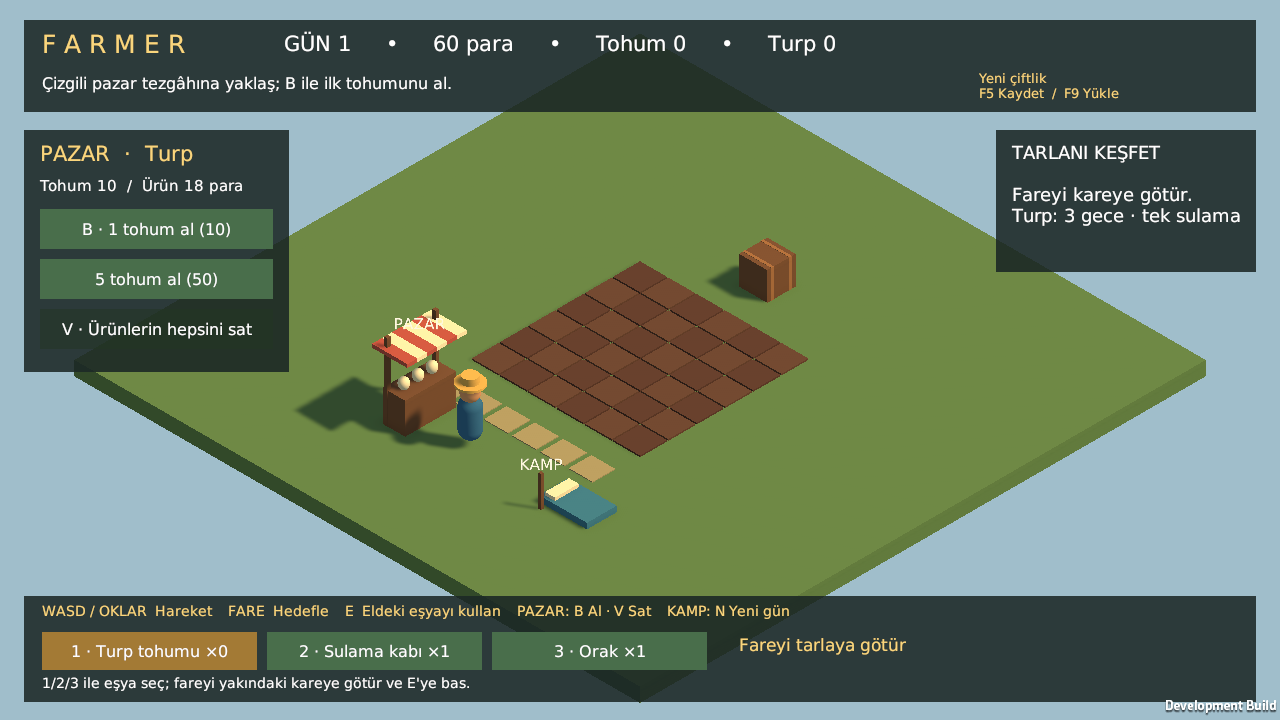
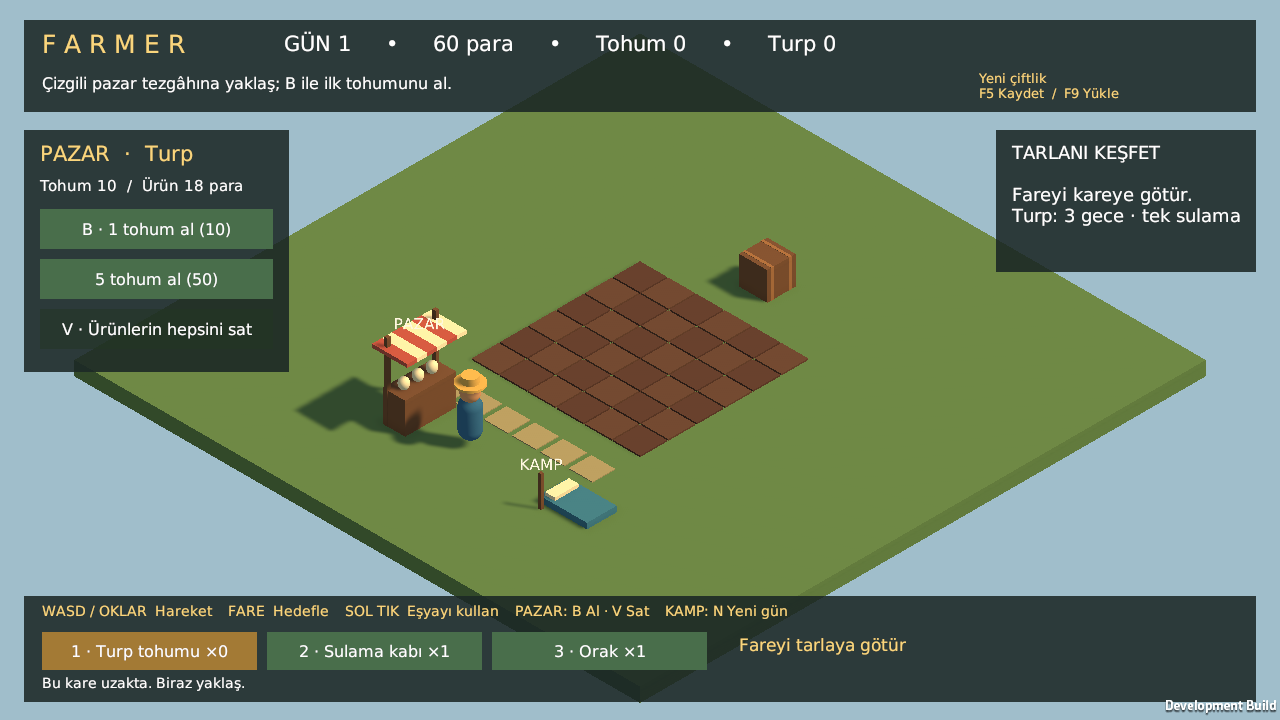
feat: use left click for equipped farming tools

Changed region(s): [[0.0312, 0.9167, 0.375, 0.9778], [0.2812, 0.825, 0.625, 0.8556]]

diff --git a/Assets/_Farmer/Runtime/FarmingSmokeChecks.cs b/Assets/_Farmer/Runtime/FarmingSmokeChecks.cs
@@ -39,21 +39,29 @@ namespace Farmer
                 yield return KeyPress(keyboard, Key.Digit1);
                 yield return Hover(game, controller, mouse, 0);
                 yield return KeyPress(keyboard, Key.E);
-                Check(game.Model.Seeds("turnip") == 5 && game.Model.Stage(0) == 0, "E plants without a prior click and consumes one seed.");
-                yield return KeyPress(keyboard, Key.E);
+                Check(game.Model.Stage(0) == -1 && game.Model.Seeds("turnip") == 6, "E no longer performs farm actions.");
+                Vector3 walkStart = player.transform.position;
+                InputSystem.QueueStateEvent(keyboard, new KeyboardState(Key.W));
+                yield return new WaitForSecondsRealtime(0.1f);
+                yield return Click(mouse, mouse.position.ReadValue());
+                InputSystem.QueueStateEvent(keyboard, new KeyboardState());
+                yield return null; yield return null;
+                Check(Vector3.Distance(player.transform.position, walkStart) > 0.1f, "W movement continues while left click uses an item.");
+                Check(game.Model.Seeds("turnip") == 5 && game.Model.Stage(0) == 0, "One left click plants directly and consumes one seed.");
+                yield return Click(mouse, mouse.position.ReadValue());
                 Check(!game.Model.Plot(0).watered && game.Model.Seeds("turnip") == 5, "Seed item cannot water an occupied plot.");
                 var waterSlot = GameObject.Find("Inventory Slot 1").GetComponent<Button>();
                 yield return Click(mouse, RectTransformUtility.WorldToScreenPoint(null, waterSlot.transform.position
                     + (Vector3)((RectTransform)waterSlot.transform).rect.center));
                 Check(game.Model.EquippedItem == FarmItem.WateringCan && GameObject.Find("Held WateringCan") != null, "Inventory click equips a visible watering can.");
-                yield return KeyPress(keyboard, Key.E);
-                Check(!game.Model.Plot(0).watered, "E over inventory does not use the previous soil target.");
+                yield return Click(mouse, mouse.position.ReadValue());
+                Check(!game.Model.Plot(0).watered, "Click over inventory does not use the previous soil target.");
                 yield return Hover(game, controller, mouse, 0);
-                yield return KeyPress(keyboard, Key.E);
-                Check(game.Model.Plot(0).watered, "E waters the planted crop.");
+                yield return Click(mouse, mouse.position.ReadValue());
+                Check(game.Model.Plot(0).watered, "Left click waters the planted crop.");
                 yield return KeyPress(keyboard, Key.Digit1);
                 yield return Hover(game, controller, mouse, 1);
-                yield return KeyPress(keyboard, Key.E);
+                yield return Click(mouse, mouse.position.ReadValue());
                 Check(!game.Model.Plot(1).watered, "Second planted crop starts dry.");
                 yield return Capture(screenshot, "stage-0");
                 yield return KeyPress(keyboard, Key.Digit2);
@@ -68,16 +76,16 @@ namespace Farmer
 
                 }
                 Check(game.Model.IsReady(0) && game.Model.Day == 4, "One watering and three nights produce a ready turnip.");
-                yield return KeyPress(keyboard, Key.E);
+                yield return Click(mouse, mouse.position.ReadValue());
                 Check(game.Model.Produce("turnip") == 0 && game.Model.IsReady(0), "Watering can never harvest a ripe plant.");
                 yield return KeyPress(keyboard, Key.Digit3);
                 Check(GameObject.Find("Held Sickle") != null, "Number key equips a visible sickle.");
                 yield return Capture(screenshot, "sickle");
                 Teleport(controller, new Vector3(7, 0.1f, 7));
-                yield return KeyPress(keyboard, Key.E);
+                yield return Click(mouse, mouse.position.ReadValue());
                 Check(game.Model.IsReady(0) && game.Model.Produce("turnip") == 0, "Walking away prevents remote harvesting.");
                 yield return Hover(game, controller, mouse, 0);
-                yield return KeyPress(keyboard, Key.E);
+                yield return Click(mouse, mouse.position.ReadValue());
                 Check(game.Model.Produce("turnip") == 1 && game.Model.Stage(0) == -1, "Harvest clears the plot and grants one item.");
                 Check(GameObject.Find("Harvest Feedback") != null && game.GetComponent<AudioSource>().isPlaying,
                     "Harvest triggers a floating item label and an audio cue.");
@@ -94,34 +102,32 @@ namespace Farmer
 
                 // Each crop is watered only once; stagger planting for a four-stage overview.
                 yield return KeyPress(keyboard, Key.Digit1);
-                yield return Hover(game, controller, mouse, 0); yield return KeyPress(keyboard, Key.E);
-                yield return KeyPress(keyboard, Key.Digit2); yield return KeyPress(keyboard, Key.E);
+                yield return Hover(game, controller, mouse, 0); yield return Click(mouse, mouse.position.ReadValue());
+                yield return KeyPress(keyboard, Key.Digit2); yield return Click(mouse, mouse.position.ReadValue());
                 Teleport(controller, game.Camp.position + Vector3.right); yield return KeyPress(keyboard, Key.N);
-                yield return Hover(game, controller, mouse, 1); yield return KeyPress(keyboard, Key.E);
-                Teleport(controller, game.Camp.position + Vector3.right); yield return KeyPress(keyboard, Key.N);
-                yield return KeyPress(keyboard, Key.Digit1);
-                yield return Hover(game, controller, mouse, 2); yield return KeyPress(keyboard, Key.E);
-                yield return KeyPress(keyboard, Key.Digit2); yield return KeyPress(keyboard, Key.E);
+                yield return Hover(game, controller, mouse, 1); yield return Click(mouse, mouse.position.ReadValue());
                 Teleport(controller, game.Camp.position + Vector3.right); yield return KeyPress(keyboard, Key.N);
                 yield return KeyPress(keyboard, Key.Digit1);
-                yield return Hover(game, controller, mouse, 3); yield return KeyPress(keyboard, Key.E);
-                yield return KeyPress(keyboard, Key.Digit2); yield return KeyPress(keyboard, Key.E);
+                yield return Hover(game, controller, mouse, 2); yield return Click(mouse, mouse.position.ReadValue());
+                yield return KeyPress(keyboard, Key.Digit2); yield return Click(mouse, mouse.position.ReadValue());
+                Teleport(controller, game.Camp.position + Vector3.right); yield return KeyPress(keyboard, Key.N);
+                yield return KeyPress(keyboard, Key.Digit1);
+                yield return Hover(game, controller, mouse, 3); yield return Click(mouse, mouse.position.ReadValue());
+                yield return KeyPress(keyboard, Key.Digit2); yield return Click(mouse, mouse.position.ReadValue());
                 Check(game.Model.Stage(0) == 3 && game.Model.Stage(1) == 2 && game.Model.Stage(2) == 1 && game.Model.Stage(3) == 0,
                     "Four distinct growth stages coexist in the final view.");
                 yield return Hover(game, controller, mouse, 0);
                 Teleport(controller, new Vector3(-4.5f, 0.1f, -2.8f));
                 yield return null;
-                // Pointer motion and E arriving in the same frame must act on the new target.
+                // Pointer motion and left click arriving in the same frame must act on the new target.
                 yield return KeyPress(keyboard, Key.Digit1);
                 Vector3 fresh = game.Selection.Layout.Center(new Vector2Int(4, 0), 0.055f);
                 Teleport(controller, fresh + Vector3.back * 1.5f + Vector3.up * 0.1f);
-                InputSystem.QueueStateEvent(mouse, new MouseState { position = Camera.main.WorldToScreenPoint(fresh) });
-                yield return KeyPress(keyboard, Key.E);
-                Check(game.Model.Stage(4) == 0, "E uses the new mouse position in the same frame.");
+                yield return Click(mouse, Camera.main.WorldToScreenPoint(fresh));
+                Check(game.Model.Stage(4) == 0, "Left click uses the new mouse position in the same frame.");
                 string state = JsonUtility.ToJson(game.Model.Snapshot());
-                InputSystem.QueueStateEvent(mouse, new MouseState { position = new Vector2(-10, -10) });
-                yield return KeyPress(keyboard, Key.E);
-                Check(JsonUtility.ToJson(game.Model.Snapshot()) == state, "E outside the window cannot affect the farm.");
+                yield return Click(mouse, new Vector2(-10, -10));
+                Check(JsonUtility.ToJson(game.Model.Snapshot()) == state, "Click outside the window cannot affect the farm.");
                 yield return KeyPress(keyboard, Key.Digit2);
                 yield return Hover(game, controller, mouse, 2);
                 Teleport(controller, new Vector3(-4.5f, 0.1f, -2.8f));

diff --git a/Assets/_Farmer/Runtime/FarmGame.cs b/Assets/_Farmer/Runtime/FarmGame.cs
@@ -51,17 +51,17 @@ namespace Farmer
         private void Update()
         {
             var k = Keyboard.current;
-            if (!Application.isFocused || k == null) return;
-            if (k.f9Key.wasPressedThisFrame) LoadGame();
+            if (!Application.isFocused) return;
+            if (k?.f9Key.wasPressedThisFrame == true) LoadGame();
             if (!Ready) return;
-            if (k.digit1Key.wasPressedThisFrame) Equip(FarmItem.Seeds);
-            if (k.digit2Key.wasPressedThisFrame) Equip(FarmItem.WateringCan);
-            if (k.digit3Key.wasPressedThisFrame) Equip(FarmItem.Sickle);
-            if (k.eKey.wasPressedThisFrame) UseHovered();
-            if (k.bKey.wasPressedThisFrame) Buy(1);
-            if (k.vKey.wasPressedThisFrame) SellHarvest();
-            if (k.nKey.wasPressedThisFrame) Rest();
-            if (k.f5Key.wasPressedThisFrame) SaveGame();
+            if (k?.digit1Key.wasPressedThisFrame == true) Equip(FarmItem.Seeds);
+            if (k?.digit2Key.wasPressedThisFrame == true) Equip(FarmItem.WateringCan);
+            if (k?.digit3Key.wasPressedThisFrame == true) Equip(FarmItem.Sickle);
+            if (Mouse.current?.leftButton.wasPressedThisFrame == true) UseHovered();
+            if (k?.bKey.wasPressedThisFrame == true) Buy(1);
+            if (k?.vKey.wasPressedThisFrame == true) SellHarvest();
+            if (k?.nKey.wasPressedThisFrame == true) Rest();
+            if (k?.f5Key.wasPressedThisFrame == true) SaveGame();
         }
 
         private bool Near(Transform target)
@@ -76,12 +76,12 @@ namespace Farmer
         public string EquippedName => Model.EquippedItem == FarmItem.Seeds ? ActiveCrop.displayName + " tohumu"
             : Model.EquippedItem == FarmItem.WateringCan ? "Sulama kabı" : "Orak";
         public string ActionLabel => HoveredIndex < 0 ? "Fareyi tarlaya götür" : !selection.HoveredInReach ? "Kareye yaklaş"
-            : Model.EquippedItem == FarmItem.Seeds ? "E · Tohum ek" : Model.EquippedItem == FarmItem.WateringCan ? "E · Sula" : "E · Hasat et";
+            : Model.EquippedItem == FarmItem.Seeds ? "Sol tık · Tohum ek" : Model.EquippedItem == FarmItem.WateringCan ? "Sol tık · Sula" : "Sol tık · Hasat et";
 
         public void Equip(FarmItem item)
         {
             if (!Ready || !Model.Equip(item)) return;
-            Feedback = EquippedName + " seçildi. Fareyi yakındaki kareye götür ve E'ye bas.";
+            Feedback = EquippedName + " seçildi. Fareyi yakındaki kareye götür ve sol tıkla.";
             SaveGame(); Changed?.Invoke();
         }
 
@@ -90,8 +90,9 @@ namespace Farmer
             if (!Ready || !Application.isFocused) return false;
             selection.RefreshPointer();
             int index = HoveredIndex;
-            if (index < 0 || !selection.HoveredInReach)
-            { Feedback = index < 0 ? "Fareyi bir tarla karesinin üzerine götür." : "Bu kare uzakta. Biraz yaklaş."; return false; }
+            if (index < 0) return false; // UI and outside-world clicks are not farm actions.
+            if (!selection.HoveredInReach)
+            { Feedback = "Bu kare uzakta. Biraz yaklaş."; return false; }
             var plot = Model.Plot(index);
             bool harvesting = Model.EquippedItem == FarmItem.Sickle;
             bool ok = Model.UseEquipped(index, ActiveCrop.id, out string message);
@@ -144,7 +145,7 @@ namespace Farmer
                 if (loaded != null) Model = loaded;
                 Ready = true;
                 SaveStatus = recovered ? "Yedek kayıt yüklendi" : loaded == null ? "Yeni çiftlik" : "Kayıt yüklendi";
-                Feedback = recovered ? "Son sağlam yedek açıldı; önceki dosya korunacak." : "1/2/3 ile eşya seç; fareyi yakındaki kareye götür ve E'ye bas.";
+                Feedback = recovered ? "Son sağlam yedek açıldı; önceki dosya korunacak." : "1/2/3 ile eşya seç; fareyi yakındaki kareye götür ve sol tıkla.";
                 Changed?.Invoke(); return true;
             }
             catch (Exception e) when (e is IOException || e is UnauthorizedAccessException || e is ArgumentException)

diff --git a/Assets/_Farmer/Runtime/FarmHud.cs b/Assets/_Farmer/Runtime/FarmHud.cs
@@ -51,7 +51,7 @@ namespace Farmer
             sleep = Button(camp, "N · Günü bitir", 16, 158, 233, 40, () => game.Rest());
 
             var footer = Panel("Controls", root.transform, new Vector2(0.5f, 0), new Vector2(0, 18), new Vector2(1232, 106));
-            Label(footer, "WASD / OKLAR  Hareket    FARE  Hedefle    E  Eldeki eşyayı kullan    PAZAR: B Al · V Sat    KAMP: N Yeni gün",
+            Label(footer, "WASD / OKLAR  Hareket    FARE  Hedefle    SOL TIK  Eşyayı kullan    PAZAR: B Al · V Sat    KAMP: N Yeni gün",
                 14, 18, 7, 1195, 24, Gold);
             for (int i = 0; i < slots.Length; i++)
             {
@@ -74,11 +74,11 @@ namespace Farmer
             saveStatus.text = game.SaveStatus + "\nF5 Kaydet  /  F9 Yükle";
             feedback.text = game.Feedback;
             if (!game.Ready) objective.text = "Kayıt sorunu çözülene kadar çiftlik işlemleri duraklatıldı.";
-            else if (model.ReadyCount > 0) objective.text = $"{model.ReadyCount} ürün hasada hazır. Orağı al (3), hedefle ve E ile topla.";
-            else if (model.ThirstyCount > 0) objective.text = $"{model.ThirstyCount} kare sulama bekliyor. Sulama kabını al (2), hedefle ve E'ye bas.";
+            else if (model.ReadyCount > 0) objective.text = $"{model.ReadyCount} ürün hasada hazır. Orağı al (3), hedefle ve sol tıkla topla.";
+            else if (model.ThirstyCount > 0) objective.text = $"{model.ThirstyCount} kare sulama bekliyor. Sulama kabını al (2), hedefle ve sol tıkla.";
             else if (model.Produce(crop.id) > 0) objective.text = "Hasadını pazarda sat; kazancınla yeni tohumlar al.";
             else if (model.PlantedCount > 0) objective.text = "Bitkilerin sulandı. Kampta dinlenerek yeni güne geç.";
-            else if (model.Seeds(crop.id) > 0) objective.text = "Tohumu al (1), boş kareyi fareyle hedefle ve E ile ek.";
+            else if (model.Seeds(crop.id) > 0) objective.text = "Tohumu al (1), boş kareyi fareyle hedefle ve sol tıkla ek.";
             else objective.text = "Çizgili pazar tezgâhına yaklaş; B ile ilk tohumunu al.";
 
             int index = game.HoveredIndex;

diff --git a/YAZILIMCI.md b/YAZILIMCI.md
@@ -4,7 +4,7 @@ Son güncelleme: **7 Ekim 2026 — Europe/Istanbul**.
 
 ## Şu an nerede kaldık?
 
-**Unity 6000.3.25f1 LTS (e1dba0a9aba4)** Linux makinesine kuruldu ve `Unity -version` ile doğrulandı. Resmi URP şablonunun kaynak dosyaları depoya alındı. 7 Ekim tarihinde aktif lisans doğrulandı; ilk paket importu, C# derlemesi ve başlangıç sahnesi üretimi başarıyla tamamlandı. Linux build ve görsel kontrol sonucu aşağıdaki doğrulama kaydında tutulur. **0.1 çekirdek prototipi Linux üzerinde tamamlandı:** hareket, kare seçimi, tohum satın alma, ekim/sulama, dört görünür büyüme aşaması, hasat/satış, gün ilerletme ve kayıt/yükleme çalışıyor. Sıradaki geliştirme 0.2 modüler üs kurmanın ilk küçük adımı. Kullanıcının ilk oynanış geri bildirimi uygulandı: tıkla-seç adımı kaldırıldı, fare hedefi üzerinde eldeki eşya ile E etkileşimine geçildi. Her ekimde tek sulama yeterli; hasat süresi üç gece olarak korundu. Görseller geçici; Windows doğrulaması açık.
+**Unity 6000.3.25f1 LTS (e1dba0a9aba4)** Linux makinesine kuruldu ve `Unity -version` ile doğrulandı. Resmi URP şablonunun kaynak dosyaları depoya alındı. 7 Ekim tarihinde aktif lisans doğrulandı; ilk paket importu, C# derlemesi ve başlangıç sahnesi üretimi başarıyla tamamlandı. Linux build ve görsel kontrol sonucu aşağıdaki doğrulama kaydında tutulur. **0.1 çekirdek prototipi Linux üzerinde tamamlandı:** hareket, kare seçimi, tohum satın alma, ekim/sulama, dört görünür büyüme aşaması, hasat/satış, gün ilerletme ve kayıt/yükleme çalışıyor. Sıradaki geliştirme 0.2 modüler üs kurmanın ilk küçük adımı. Kullanıcının ilk oynanış geri bildirimi uygulandı: tıkla-seç adımı kaldırıldı, fare hedefi üzerinde eldeki eşya ile doğrudan sol tık etkileşimine geçildi. Her ekimde tek sulama yeterli; hasat süresi üç gece olarak korundu. Görseller geçici; Windows doğrulaması açık.
 
 Kullanıcı tek başına geliştirecek, Linux ve Windows bilgisayarlar arasında çalışacak. Python, C# ve Java deneyimi yüksek; oyun motoru deneyimi sınırlı ancak Unity'de Godot'tan daha deneyimli. Modelleri harici AI araçlarıyla üretebilir; biz prompt ve entegrasyon gereksinimlerini hazırlayacağız.
 
@@ -98,19 +98,20 @@ Kullanıcı 7 Ekim 2026'da diğer bilgisayarda değişiklik yapmadığını beli
 - Smoke capture ayrı geçici kayıt kullanır ve normal oyuncu kaydını değiştirmez; sonunda test kayıtları temizlenir. Build, günlük ve QA ara çıktıları Git dışında.
 - Windows, editör Play modu ve uzun süreli performans testi ayrıca yapılmadı. 0.2 inşaat, çoklu ürün seçimi, üretim ve moblar bu sürüme dahil değil.
 
-## Güncel etkileşim — eldeki eşya ve tıklamasız hedefleme
+## Güncel etkileşim — eldeki eşya ve doğrudan sol tık
 
-Kullanıcı 7 Ekim'de her kareye tıklayıp E'ye basmanın geniş tarlalarda yorucu olduğunu bildirdi. İstenen değişiklik uygulandı:
+Kullanıcı 7 Ekim'de önce kare seçme adımını kaldırmamızı, ardından WASD ile birlikte kullanım daha rahat olsun diye E yerine sol tık kullanmamızı istedi. Güncel davranış:
 
 - **1:** turp tohumu; **2:** sulama kabı; **3:** orak. Alt eşya çubuğundan da kuşanılır. Alınan tohum adedi burada gösterilir; sulama kabı ve orak kalıcı başlangıç envanter eşyalarıdır. Genel çanta/alet satın alma sistemi henüz yok.
-- Fare yakındaki kare üzerindeyken **E** eldeki eşyayı kullanır. Tarlaya sol tıklama gerekmez, kalıcı kare seçimi yoktur. Yanlış alet başka bir işe dönüşmez; tekrar ekim/sulama/hasat kaynak çoğaltmaz.
-- HUD/pencere dışı/uzak karede işlem engellenir. E sırasında fare konumu yeniden okunur; aynı görüntü karesinde eski hedefe yanlış işlem yapılmaz. Bir basış bir işlem; basılı tutma ve alan etkisi eklenmedi.
+- Fare yakındaki kare üzerindeyken **sol tık** eldeki eşyayı doğrudan kullanır. Önce seçim adımı yoktur; E artık tarla işlemi yapmaz. Yanlış alet başka bir işe dönüşmez; tekrar ekim/sulama/hasat kaynak çoğaltmaz.
+- HUD/pencere dışı/uzak karede işlem engellenir. Sol tık sırasında fare konumu yeniden okunur; aynı görüntü karesinde eski hedefe yanlış işlem yapılmaz. Bir basış bir işlem; basılı tutma ve alan etkisi eklenmedi.
 - `FarmModel.EquippedItem` / `UseEquipped` kuralları sunumdan ayrıdır. `FarmGame.UseHovered` erişimi kontrol eder; `FarmSelection` yalnızca imleç hedefini tutar. `FarmHud` eşya çubuğu ve hedef bilgisi gösterir.
 - Tohum torbası, sulama kabı ve orak karakterin elinde geçici geometriyle görünür. Tohum sayısı sıfırsa elde torba gösterilmez. Modeller nihai sanat varlığı değildir.
 - Kuşanılan eşya `FarmSnapshot.equippedItem` ile kaydedilir. Şema hâlâ sürüm 1; eski kayıtta bu alan yoksa tohum varsayılır. Para/tarla/envanter korunur, aletler başlangıç donanımı olarak bulunur.
 - Tek sulama hasada kadar korunur; hiç sulanmayan ürün bekler, hasat sonrası yeni ekim yeniden bir kez sulanır. Süre üç gecedir. Eski kayıtta `growth > 0` olan ürün önceden sulanmış kabul edilir; ilerleme kaybolmaz.
 - **44/44 EditMode testi geçti** (`Logs/equipment-watering-tests.xml`): eşya işlemleri, eski kayıt uyumluluğu, tek sulamanın kayıt sonrası sürmesi ve yeniden ekimde sıfırlanması dahil.
-- Son Linux build başarılı (`Logs/equipment-watering-build.log`). Gerçek player'da **11 hareket/hedef + 48 tarım kontrolü geçti**, çıkış 0 (`Logs/equipment-watering-player.log`). Döngüde hiç tarla tıklaması yok; tek sulamadan sonra yeniden sulanmadan üç gecede hasat doğrulandı; eşya düğmesi/1–2–3, yanlış alet, HUD üzerinde E, pencere dışı E, aynı görüntü karesinde fare hareketi + E ve kayıt/yükleme denendi.
+- Önceki eşya/tek sulama Linux build'i başarılı (`Logs/equipment-watering-build.log`). Gerçek player'da **11 hareket/hedef + 48 tarım kontrolü geçti**, çıkış 0 (`Logs/equipment-watering-player.log`). Döngüde hiç tarla tıklaması yok; tek sulamadan sonra yeniden sulanmadan üç gecede hasat doğrulandı; eşya düğmesi/1–2–3, yanlış alet, HUD üzerinde E, pencere dışı E, aynı görüntü karesinde fare hareketi + E ve kayıt/yükleme denendi.
+- **Son sol tık doğrulaması:** Linux build ve 61 gerçek player kontrolü geçti; `Logs/click-build.log` / `Logs/click-player.log`. Arayüz yönlendirmeleri ve ekran görüntüleri güncellendi.
 - Yeni eşya çubuğu, tohum torbası, sulama kabı ve orak oyun görüntülerinde incelendi. Güncel PNG'ler `docs/screenshots/farming-prototype.png` / `farming-market.png`. Windows ve kullanıcıyla yeni etkileşimin hissi henüz denenmedi.
 
 ## Sıradaki somut işler
@@ -134,3 +135,5 @@ Kullanıcı 7 Ekim'de her kareye tıklayıp E'ye basmanın geniş tarlalarda yor
 **2026-10-07 — etkileşim geri bildirimi:** Kullanıcının isteğiyle tıkla-seç + bağlama göre işlem yapısı kaldırıldı. 1/2/3 ve eşya çubuğuyla kuşanılan tohum/sulama kabı/orak, fare hedefindeki yakın kareye E ile uygulanıyor. Eşya adımı önce 42 mantık testi ve 61 player kontrolüyle doğrulandı; aşağıdaki tek sulama değişikliği sonrasında güncel sonuç 44 mantık testi ve 59 player kontrolüdür.
 
 **2026-10-07 — tek sulama geri bildirimi:** Kullanıcı aynı adımda günlük sulama gereğini kaldırmamızı istedi. Her ekimde bir sulama yeterli olacak şekilde model, kayıt uyumluluğu ve arayüz güncellendi; olgunlaşma üç gece olarak korundu. Son Linux build, 44 mantık testi ve 59 player kontrolü başarılı.
+
+**2026-10-07 — sol tık geri bildirimi:** Kullanıcı WASD ile E kullanmanın yorucu olduğunu bildirdi. Ekim/sulama/hasat doğrudan sol tıka taşındı; 1/2/3 eşya seçimi ve tek sulama/üç gece kuralı korundu. Arayüz ve pencere dışı tıklamalar tarla işlemi yapmaz. Linux build başarılı (`Logs/click-build.log`); gerçek player'da 11 hareket/hedef ve 50 tarım kontrolü başarılı, çıkış 0 (`Logs/click-player.log`). W ile yürürken tek tıkla ekim, E'nin etkisiz olması, yanlış alet, arayüz/pencere dışı tıklama ve tam tarım döngüsü denendi. Güncel ekran görüntüsü incelendi. Model/kayıt kuralları değişmediği için 44 EditMode testi bu adımda tekrar çalıştırılmadı; önceki geçerli sonuç yukarıdadır.

diff --git a/docs/TESTLER.md b/docs/TESTLER.md
@@ -36,12 +36,12 @@ Kontrol, Input System'e geçici sanal klavye/fare olayları göndererek normal h
 1. `Farm.unity` sahnesini açıp Play'e bas veya Linux uygulamasını ek bayrak olmadan çalıştır.
 2. WASD ve oklarla her yöne yürü; çapraz hareketin hızlanmadığını, kameranın dönmediğini gözle.
 3. Sağdaki sandığa doğru yürü; içinden geçmemelisin. Arazi kenarına yürü; düşmemelisin.
-4. Fareyi tarlada gezdir; tıklamadan hedef çerçevesi gelmeli. Uzak kare turuncu olmalı ve E işlem yapmamalı.
-5. Fare HUD üzerindeyken/pencere dışındayken hedef kaybolmalı; E önceki karede işlem yapmamalı. 1/2/3 veya eşya çubuğu düğmeleri eldeki eşyayı değiştirmeli.
+4. Fareyi tarlada gezdir; tıklamadan hedef çerçevesi gelmeli. Uzak kare turuncu olmalı ve sol tık işlem yapmamalı.
+5. Fare HUD üzerindeyken/pencere dışındayken hedef kaybolmalı; sol tık önceki karede işlem yapmamalı. 1/2/3 veya eşya çubuğu düğmeleri eldeki eşyayı değiştirmeli.
 6. Pazar tezgâhına yaklaş, B veya düğmelerle tohum al. Paran ve tohum sayın doğru değişmeli.
-7. 1 ile tohumu kuşan, yakın boş kareyi fareyle hedefle ve E ile ek. Aynı eşyayla tekrar E sulamamalı. 2 ile sulama kabını kuşan ve E ile sula; toprak koyulaşmalı. 1 ile ikinci bir kareye ekip kuru bırak.
+7. 1 ile tohumu kuşan, yakın boş kareyi fareyle hedefle ve sol tıkla ek. Aynı eşyayla tekrar sol tık sulamamalı. 2 ile sulama kabını kuşan ve sol tıkla sula; toprak koyulaşmalı. 1 ile ikinci bir kareye ekip kuru bırak.
 8. Kamp minderine yaklaş ve N ile günü bitir. Sulanan ürün büyümeli, kuru ürün aynı aşamada kalmalı. Yeniden sulamadan üç kez geceyi geçir; üçüncü geceden sonra hasat hazır olmalı. Hasat sonrası tekrar ekilen bitki bir kez yeniden sulanmalı.
-9. Sulama kabıyla olgun ürünü hasat edememelisin. 3 ile orağı kuşan ve E ile hasat et; pazara gidip V ile sat ve kazançla tekrar tohum al.
+9. Sulama kabıyla olgun ürünü hasat edememelisin. 3 ile orağı kuşan ve sol tıkla hasat et; pazara gidip V ile sat ve kazançla tekrar tohum al.
 10. Bir kareyi suladıktan sonra oyunu kapat/aç veya F9'a bas. Para, tohum, hasat envanteri, gün, bitki, sulama ve kuşanılan eşya korunmalı.
 
 ## Tarım döngüsünün otomatik player denemesi
@@ -52,9 +52,9 @@ Kontrol, Input System'e geçici sanal klavye/fare olayları göndererek normal h
   -logFile "$PWD/Logs/farming-player.log"
 ```
 
-`--farmer-check-farming`, pazar düğmesine gerçek UI tıklaması ve 1/2/3/B/E/N/V/F5/F9 tuş olaylarıyla satın alma, kuru bitkinin beklemesi, dört aşama, uzak hasadın engellenmesi, hasat, satış, yeniden yatırım ve kayıt yüklemeyi kontrol eder. Tarla işlemleri öncesinde fare tıklaması gönderilmez. Yanlış alet, HUD/pencere dışı E, eşya düğmesi ve aynı karede imleç hareketi + E de kontrol edilir. Ayrıca pazar ve her büyüme aşaması için ayrı PNG üretir; son görüntüde farklı yaşta dört bitki bırakır. Testte konum hazırlığı teleport ile yapılır; hareket/çarpışma ayrıca önceki kontrol setinde denenir.
+`--farmer-check-farming`, pazar düğmesine gerçek UI tıklaması ve 1/2/3/B/N/V/F5/F9 tuş olaylarıyla satın alma, kuru bitkinin beklemesi, dört aşama, uzak hasadın engellenmesi, hasat, satış, yeniden yatırım ve kayıt yüklemeyi kontrol eder. Tarla işlemleri tek sol tıkla yapılır; E işlemez. WASD hareketi sırasında tıklama da denenir. Yanlış alet, HUD/pencere dışı tıklama, eşya düğmesi ve aynı karede imleç hareketi + sol tık da kontrol edilir. Ayrıca pazar ve her büyüme aşaması için ayrı PNG üretir; son görüntüde farklı yaşta dört bitki bırakır. Testte konum hazırlığı teleport ile yapılır; hareket/çarpışma ayrıca önceki kontrol setinde denenir.
 
-**Her smoke capture çalıştırması ayrı geçici kayıt klasörü kullanır; oyuncunun normal çiftliğini yüklemez veya üzerine yazmaz.** Sonunda test kayıt klasörü temizlenir. Ekran görüntüleri ve günlükler `builds/QA` / `Logs` altında kalır. Başarı için 48 `FARMER_FARM_CHECK_OK`, `FARMER_FARMING_CHECKS_FINISHED`, `FARMER_PLAYER_SMOKE_OK` ve çıkış 0 gerekir; `FARMER_FARM_CHECK_FAILED` olmamalı. Ses kontrolü AudioSource oynatma durumunu doğrular; dinleme kalitesi değerlendirmesi değildir.
+**Her smoke capture çalıştırması ayrı geçici kayıt klasörü kullanır; oyuncunun normal çiftliğini yüklemez veya üzerine yazmaz.** Sonunda test kayıt klasörü temizlenir. Ekran görüntüleri ve günlükler `builds/QA` / `Logs` altında kalır. Başarı için 50 `FARMER_FARM_CHECK_OK`, `FARMER_FARMING_CHECKS_FINISHED`, `FARMER_PLAYER_SMOKE_OK` ve çıkış 0 gerekir; `FARMER_FARM_CHECK_FAILED` olmamalı. Ses kontrolü AudioSource oynatma durumunu doğrular; dinleme kalitesi değerlendirmesi değildir.
 
 ## Kayıt dosyası
 

diff --git a/docs/OYUN_TASARIMI.md b/docs/OYUN_TASARIMI.md
@@ -16,7 +16,7 @@ Tekrarlanan işleri ileride sulama/üretim sistemleri kolaylaştırmalı. Daha g
 
 ## Çiftçilik
 
-**7 Ekim kullanıcı geri bildirimiyle kesinleşen etkileşim:** Tarla karesini tıklayarak seçmek gerekmez. Fare o karenin üzerindeyken ve oyuncu yeterince yakındayken E, eldeki eşyayı kullanır. Tohum ekim, sulama kabı sulama, orak hasat yapar; işlemler bitkinin durumuna bakarak otomatik başka bir işe dönüşmez. Eşyalar hızlı erişim çubuğundan veya 1/2/3 ile kuşanılır; karakterin elinde görünür. Bir basış bir işlem yapar. Şimdilik basılı tutma, alan etkisi, su doldurma ve alet dayanıklılığı yoktur.
+**7 Ekim kullanıcı geri bildirimiyle kesinleşen etkileşim:** Tarla karesini tıklayarak seçmek gerekmez. Fare o karenin üzerindeyken ve oyuncu yeterince yakındayken sol tık, eldeki eşyayı kullanır. Tohum ekim, sulama kabı sulama, orak hasat yapar; işlemler bitkinin durumuna bakarak otomatik başka bir işe dönüşmez. Eşyalar hızlı erişim çubuğundan veya 1/2/3 ile kuşanılır; karakterin elinde görünür. Bir sol tık bir işlem yapar. Şimdilik basılı tutma, alan etkisi, su doldurma ve alet dayanıklılığı yoktur.
 
 0.1 envanterinde sulama kabı ve orak birer kalıcı başlangıç eşyasıdır. Tohum adedi pazar alışverişinden gelir ve ekimde azalır. Bu prototipte genel çanta/taşıma sistemi yoktur; alet edinme/üretme ekonomisi sonraki tasarım işidir.
 

diff --git a/docs/KURULUM.md b/docs/KURULUM.md
@@ -30,7 +30,7 @@ git config --local user.email "cenkgrs@gmail.com"
 4. Unity Hub → Projects → Add/Open from disk ile deponun kökünü seç. Mevcut deponun üzerine yeni şablon oluşturma.
 5. İlk import ve paket çözümlemesini bekle. Lisans/derleme hatası varsa önce onu çöz.
 6. `Farm.unity` yoksa Farmer → Create Initial Scene menüsünü bir kez çalıştır. Araç mevcut Farm sahnesinin üzerine yazmaz.
-7. `Assets/_Farmer/Scenes/Farm.unity` sahnesini aç ve Play'e bas. Sahnede WASD/oklarla hareket, fareyle tıklamadan kare hedefleme vardır. 1/2/3 ile tohum/sulama kabı/orak kuşan, E ile hedeflenen yakındaki karede kullan. Pazar yakınında B/V ile alış/satış, kampta N ile yeni gün kullanılabilir.
+7. `Assets/_Farmer/Scenes/Farm.unity` sahnesini aç ve Play'e bas. Sahnede WASD/oklarla hareket, fareyle tıklamadan kare hedefleme vardır. 1/2/3 ile tohum/sulama kabı/orak kuşan, sol tıkla hedeflenen yakındaki karede kullan. Pazar yakınında B/V ile alış/satış, kampta N ile yeni gün kullanılabilir.
 
 Windows adımları diğer makinede henüz denenmedi.
 

diff --git a/docs/YOL_HARITASI.md b/docs/YOL_HARITASI.md
@@ -9,7 +9,7 @@ Küçük arazi, sabit ortografik kamera, karakter hareketi, fareyle kare hedefle
 Kabul:
 
 - [x] Oyuncu hareket eder, hedeflenen toprak karesi anlaşılır, kamera dönmez. (7 Ekim: 12 mantık testi, Linux player giriş/çarpışma/seçim kontrolü ve ekran görüntüsü.)
-- [x] Elde kuşanılan tohum/sulama kabı/orak, fare hedefi üzerinde E ile kullanılır; tarla için önce tıklama gerekmez.
+- [x] Elde kuşanılan tohum/sulama kabı/orak, fare hedefi üzerinde sol tıkla kullanılır; önce kare seçme adımı yoktur.
 - [x] Tohum satın alma → ekim → sulama → dört görünür büyüme aşaması → hasat → satış → yeniden tohum satın alma döngüsü tamamlanır.
 - [x] Tohum ve para doğru eksilir; hasat tek kez alınır; negatif miktar/para oluşmaz.
 - [x] Her ekimde tek sulama büyümeyi başlatır; üç gece süresi korunur. Hiç sulanmayan ürün bekler, bitki hemen ölmez.

diff --git a/README.md b/README.md
@@ -11,7 +11,7 @@
 - **WASD / ok tuşları:** hareket.
 - **Fare:** tarla karesini hedefle; tıklamana gerek yok. Turuncu çerçeve, yaklaşman gerektiğini belirtir.
 - **1 / 2 / 3:** tohum / sulama kabı / orak kuşan. Eşya çubuğuna tıklayarak da seçebilirsin.
-- **E:** farenin gösterdiği yakındaki karede elindeki eşyayı kullan. Tohum eker, sulama kabı sular, orak hasat eder.
+- **Sol tık:** farenin gösterdiği yakındaki karede elindeki eşyayı kullan. Tohum eker, sulama kabı sular, orak hasat eder.
 - **Pazar yakınında B:** 1 tohum al. **V:** turpların hepsini sat. Ekrandan 5 tohum da alınabilir.
 - **Kamp yakınında N:** günü bitir. Bir kez sulanan ürünler büyür; hiç sulanmayanlar bekler.
 - **F5 / F9:** kaydet / son kaydı yükle. Başarılı işlemler zaten otomatik kaydedilir.
